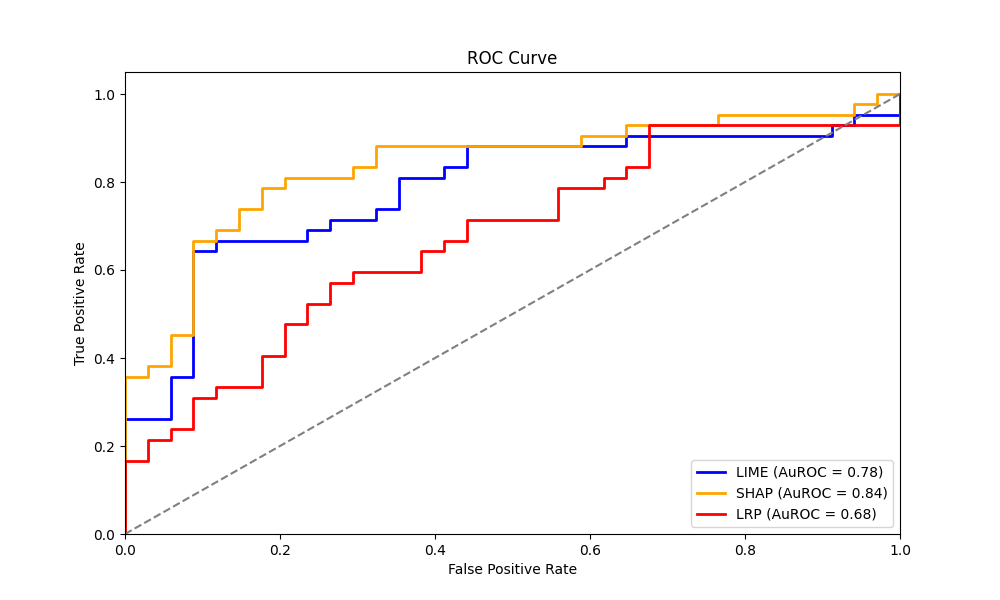
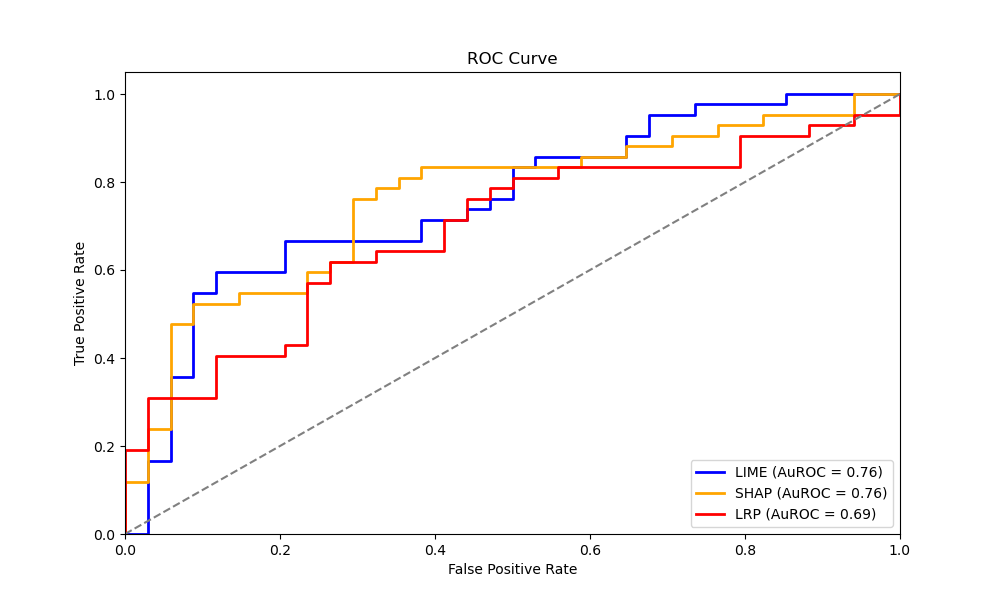
Removal of sensitive features

diff --git a/project.py b/project.py
@@ -51,9 +51,6 @@ def load_data():
     # Extract features, removed gender and ethnicity 
     features = data[
         [
-            "age",
-            "education",
-            "country",
             "nscore",
             "escore",
             "oscore",
